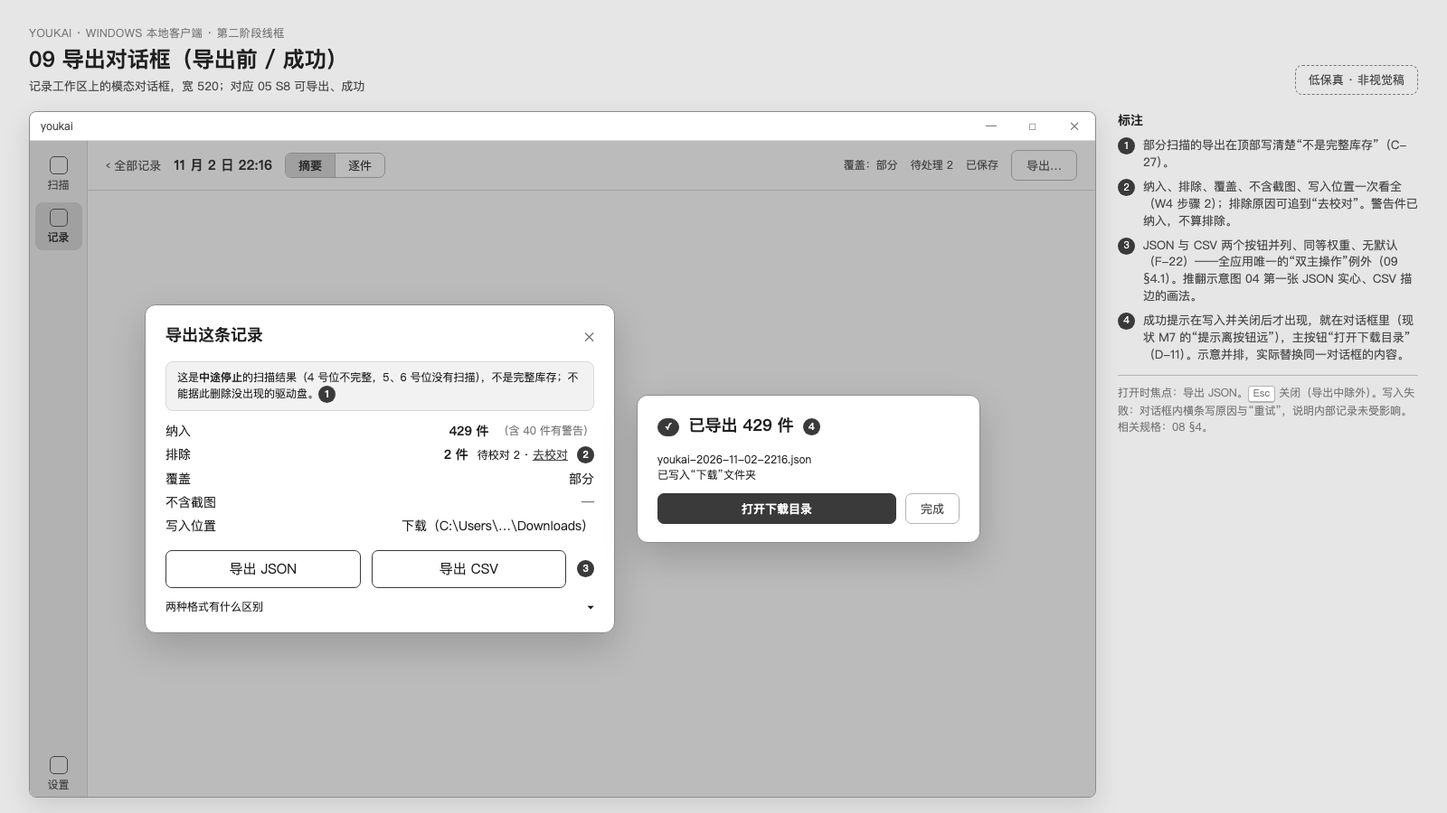
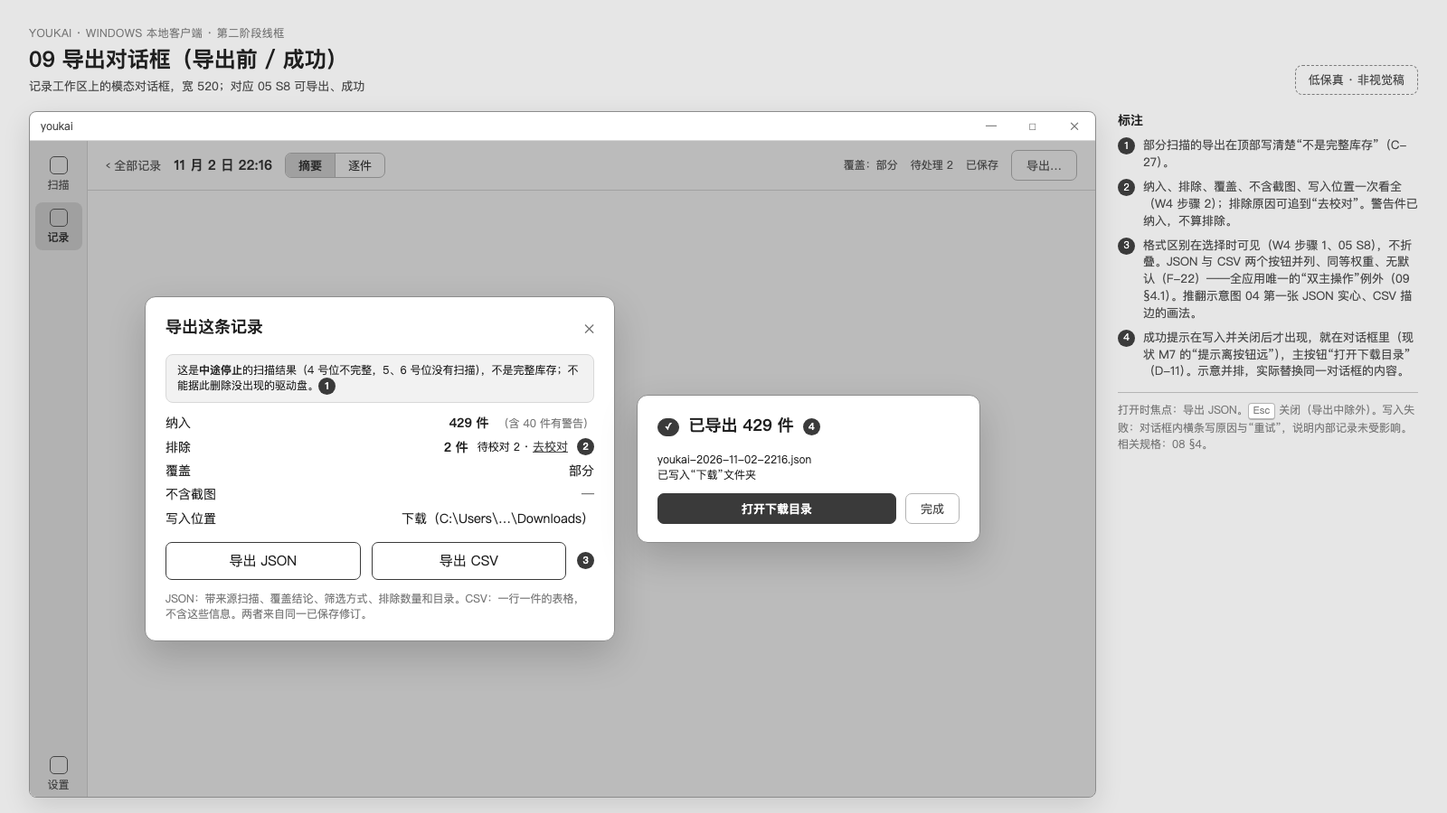
docs(design): address phase-two review round 4
List every phase-one input overridden by removing the recent-record
card (05 S1 revisit, 06 section 3 items 3 and 13, 03 entry points),
drop the proposed "why?" link so first visits match wireframe 01, and
restore spec-required copy that was trimmed as redundant: P-14's
"total unknown, no percentage" on the scan page and in the scanning
state, and the format differences in the export dialog (W4 step 1,
S8). Add "information required by specs or decided proposals" and
tooltip shortcuts to the 09 section 5.3 exceptions.

Also make the records list lead row show a conclusion, add read-only
focus rules to 08 section 3.4, unify the warning band text, tie the
prepare-timeout card to the checklist and its start button, tighten
T-08's fallback and evidence wording, and fix small focus and menu
mismatches.

Agent-Models: claude-opus-5-5 medium

diff --git a/docs/design/uiux-2026-11/wireframes/03-home-preparing.html b/docs/design/uiux-2026-11/wireframes/03-home-preparing.html
@@ -25,13 +25,13 @@
         </div>
       </section>
       <section class="col" style="width:420px; gap:12px">
-        <div class="row"><h4 style="margin:0">对照：准备超时后（出现在左侧同一位置）</h4><span class="m">4</span></div>
+        <div class="row"><h4 style="margin:0">对照：准备超时后回到准备检查（清单顶部）</h4><span class="m">4</span></div>
         <div class="scancard" style="flex:none">
           <div class="col" style="gap:8px; padding:14px 16px">
             <b>没有开始：30 秒内游戏没有就绪</b>
             <div class="check bad" style="grid-template-columns:22px 1fr; padding:8px 0; background:none; border:0"><span class="ic bad"></span><span><b>游戏窗口被遮挡</b><br><span class="small">检查点 7 被另一个窗口挡住（窗口类：Chrome_WidgetWin_1，进程：chrome.exe）。<br>请关掉或移开挡住游戏的窗口，然后重新开始。</span></span></div>
           </div>
-          <div class="actbar"><div class="notice"><span class="link">复制诊断信息</span></div><div class="go"><span class="btn primary">重新开始</span></div></div>
+          <div class="actbar"><div class="notice"><span class="link">复制诊断信息</span></div><div class="go"><span class="btn primary">开始扫描</span></div></div>
         </div>
       </section>
     </div></main>
@@ -43,7 +43,7 @@
     <li>30 秒倒计时（P-04 已采纳）。youkai 留在原地（P-09 不采纳），游戏切到前台后通常看不到它；倒计时只在用户切回前有用（06 §3 第 15 条）。</li>
     <li>激活结果：成功时只写“已把游戏切到前台”；被系统拒绝时写“未能切换，请自己切换到游戏”（C-05，需要 R-02）。</li>
     <li>逐项实时原因先实测（P-04）；实测前只写“正在等待游戏就绪”，到期后再显示原因（L-02）。</li>
-    <li>准备超时与预检失败：原因 + 怎么做 + 下一步；遮挡写检查点与窗口类或进程名，不写外部窗口标题（T2 §3.2）。示意并排放在右侧，实际出现在左侧扫描区同一位置。</li>
+    <li>准备超时与预检失败：扫描区回到准备检查，这张卡就是清单顶部的失败结论（下面接着其余检查项，此处省略）；按钮就是方案 C 操作条里的“开始扫描”，不另设“重新开始”（08 §1.2）。原因 + 怎么做；遮挡写检查点与窗口类或进程名，不写外部窗口标题（T2 §3.2）。</li>
   </ol>
   <div class="state">“停止”按钮可用 Tab 到达；推荐用热键停止。<br>相关规格：08 §1.2；10 R-02、R-03、R-05。</div>
 </div>

diff --git a/docs/design/uiux-2026-11/wireframes/01-home-first-run.html b/docs/design/uiux-2026-11/wireframes/01-home-first-run.html
@@ -25,7 +25,7 @@
           <div class="small muted" style="padding:8px 12px">范围：S 级 · 1–6 号位 · 保存在本机</div>
         </div>
         <div class="actbar">
-          <div class="notice"><span>中途停止 <span class="kbd">Ctrl</span>+<span class="kbd">Alt</span>+<span class="kbd">Shift</span>+<span class="kbd">S</span></span><span>点开始后 <b>30 秒内</b>保持游戏在前台，扫描期间不要操作游戏</span><span>预计：未知</span><span class="m">4</span></div>
+          <div class="notice"><span>中途停止 <span class="kbd">Ctrl</span>+<span class="kbd">Alt</span>+<span class="kbd">Shift</span>+<span class="kbd">S</span></span><span>点开始后 <b>30 秒内</b>保持游戏在前台，扫描期间不要操作游戏</span><span>预计：未知（总数未知，不显示百分比）</span><span class="m">4</span></div>
           <div class="go"><span class="why">管理员权限不一致</span><span class="btn primary off big">开始扫描</span><span class="m">5</span></div>
         </div>
       </div>
@@ -38,7 +38,7 @@
     <li>首次与回访使用同一份准备检查（P-03），检查项默认全部展开；不满足项排在最前，标题行的标签写“n 项需要处理”。检查结果带检查时间，窗口重新获得焦点或超过 10 秒时自动重查（09 §4.8）。</li>
     <li>失败项展开“为什么 + 怎么做”。权限是首次使用主路径上的正常步骤（W1 步骤 3–4），引导文案“先从托盘退出 youkai，再以管理员身份运行”（P-05）。</li>
     <li>需要游戏在前台的检查不给结论，只标“点开始后检查”，并提示先打开驱动盘仓库页（C-07）。</li>
-    <li>须知在底部操作条左侧（方案 C）；预计耗时没有历史时写“未知”（P-14）。</li>
+    <li>须知在底部操作条左侧（方案 C）；预计耗时没有历史时写“未知”，并按 P-14 说明总数未知、不显示百分比。</li>
     <li>按钮在操作条右侧；禁用时原因写在按钮左侧（09 §4.1）。失败项展开后清单变长，操作条仍固定可见。初始焦点在“退出 youkai”。</li>
   </ol>
   <div class="state">焦点顺序：导航轨 → 重新检查 → 退出 youkai → 更换目标 → 开始扫描（禁用）。<br>相关规格：08 §1、§1.1、§1.3。</div>

diff --git a/docs/design/uiux-2026-11/wireframes/14-review-warning.html b/docs/design/uiux-2026-11/wireframes/14-review-warning.html
@@ -33,7 +33,7 @@
 </div>
 <div class="notes">
   <h3>标注</h3>
-  <ol><li>“警告”筛选下选中一件有警告但可导出的件；以最常见的“装备者未识别”为例（11-02 真机 108 件）。警告件不计入“待处理”。</li><li>截图区同其他件；警告字段对应的装备者头像裁剪被高亮，方便用户自己判断是谁。</li><li>表单顶部一条说明带（不是错误样式）：“已纳入导出 · 警告：装备者未识别”；装备者字段写“未识别（可留空导出）”并带“!”标记，警告字段排在表单最前（08 §3.3）。</li><li>原始文字、修订前后值按需展开。</li><li><b>不需要用户操作</b>：用户已决定警告暂不处理、留空导出（06 §1.2），所以没有主按钮、没有“确认并下一项”，也没有批量处理。可选：点“修改”补填装备者后“确认修改”，警告消失、转为已通过（与 13 相同，已采纳）。</li></ol>
+  <ol><li>“警告”筛选下选中一件有警告但可导出的件；以最常见的“装备者未识别”为例（11-02 真机 108 件）。警告件不计入“待处理”。</li><li>截图区同其他件；警告字段对应的装备者头像裁剪被高亮，方便用户自己判断是谁。</li><li>表单顶部一条说明带（不是错误样式）：“已纳入导出 · 警告：装备者未识别，导出时留空。”；装备者字段写“未识别（可留空导出）”并带“!”标记，警告字段排在表单最前（08 §3.3）。</li><li>原始文字、修订前后值按需展开。</li><li><b>不需要用户操作</b>：用户已决定警告暂不处理、留空导出（06 §1.2），所以没有主按钮、没有“确认并下一项”，也没有批量处理。可选：点“修改”补填装备者后“确认修改”，警告消失、转为已通过（与 13 相同，已采纳）。</li></ol>
   <div class="state">初始焦点：“修改”按钮。焦点顺序同 13。<br>相关规格：08 §3.3、§3.4；05 S7 有警告但可导出的件；06 §1.2。</div>
 </div>
 </div>

diff --git a/docs/design/uiux-2026-11/wireframes/09-export-dialog.html b/docs/design/uiux-2026-11/wireframes/09-export-dialog.html
@@ -23,7 +23,7 @@
         <div class="row"><span class="grow">写入位置</span><span>下载（C:\Users\…\Downloads）</span></div>
       </div>
       <div class="row" style="gap:12px; margin-top:4px"><span class="btn big grow">导出 JSON</span><span class="btn big grow">导出 CSV</span><span class="m">3</span></div>
-      <div class="row small"><span class="grow">两种格式有什么区别</span><span>▾</span></div>
+      <div class="small muted">JSON：带来源扫描、覆盖结论、筛选方式、排除数量和目录。CSV：一行一件的表格，不含这些信息。两者来自同一已保存修订。</div>
     </div>
     <div class="dialog col" style="gap:12px; width:380px">
       <div class="row"><span class="tag solid">✓</span><h2 style="font-size:18px">已导出 429 件</h2><span class="m">4</span></div>
@@ -37,7 +37,7 @@
   <ol>
     <li>部分扫描的导出在顶部写清楚“不是完整库存”（C-27）。</li>
     <li>纳入、排除、覆盖、不含截图、写入位置一次看全（W4 步骤 2）；排除原因可追到“去校对”。警告件已纳入，不算排除。</li>
-    <li>JSON 与 CSV 两个按钮并列、同等权重、无默认（F-22）——全应用唯一的“双主操作”例外（09 §4.1）。推翻示意图 04 第一张 JSON 实心、CSV 描边的画法。</li>
+    <li>格式区别在选择时可见（W4 步骤 1、05 S8），不折叠。JSON 与 CSV 两个按钮并列、同等权重、无默认（F-22）——全应用唯一的“双主操作”例外（09 §4.1）。推翻示意图 04 第一张 JSON 实心、CSV 描边的画法。</li>
     <li>成功提示在写入并关闭后才出现，就在对话框里（现状 M7 的“提示离按钮远”），主按钮“打开下载目录”（D-11）。示意并排，实际替换同一对话框的内容。</li>
   </ol>
   <div class="state">打开时焦点：导出 JSON。<kbd class="kbd">Esc</kbd> 关闭（导出中除外）。写入失败：对话框内横条写原因与“重试”，说明内部记录未受影响。<br>相关规格：08 §4。</div>

diff --git a/docs/design/uiux-2026-11/wireframes/10-records.html b/docs/design/uiux-2026-11/wireframes/10-records.html
@@ -12,7 +12,7 @@
       <table class="t">
         <thead><tr><th>时间</th><th>结果</th><th class="num">件数</th><th class="num">待处理</th><th class="num">可导出</th><th class="num">占用</th><th style="width:44px"></th></tr></thead>
         <tbody>
-          <tr class="sel"><td><b>11 月 3 日 21:40</b></td><td>正常结束 · 覆盖：全部</td><td class="num">1,017</td><td class="num">1</td><td class="num">1,016</td><td class="num">312 MB</td><td>⋯</td></tr>
+          <tr class="sel"><td><b>11 月 3 日 21:40</b></td><td><b>扫全了，1 件待校对</b></td><td class="num">1,017</td><td class="num">1</td><td class="num">1,016</td><td class="num">312 MB</td><td>⋯ <span class="m">3</span></td></tr>
           <tr><td>11 月 3 日 20:12</td><td>正常结束 · 覆盖：部分（2 个号位）</td><td class="num">612</td><td class="num">0</td><td class="num">612</td><td class="num">190 MB</td><td>⋯</td></tr>
           <tr><td>11 月 3 日 19:58</td><td>没有开始 · 准备超时</td><td class="num">0</td><td class="num">—</td><td class="num">0</td><td class="num">1 MB</td><td>⋯</td></tr>
           <tr><td>11 月 2 日 22:16</td><td>中途停止 · 游戏失去了焦点</td><td class="num">431</td><td class="num">2</td><td class="num">429</td><td class="num">140 MB</td><td>⋯</td></tr>
@@ -20,7 +20,6 @@
           <tr><td class="muted">11 月 1 日 23:40</td><td><span class="tag solid">!</span> 无法打开：文件已损坏 <span class="m">2</span></td><td class="num muted">—</td><td class="num muted">—</td><td class="num muted">—</td><td class="num">88 MB</td><td>⋯</td></tr>
         </tbody>
       </table>
-      <div class="row small muted"><span class="m">3</span></div>
       <div class="row" style="align-items:flex-start; gap:18px; margin-top:auto">
         <div class="menu"><div>打开</div><div>导出…</div><div class="sep"></div><div>删除截图…（312 MB）</div><div>删除记录…</div></div><span class="m">4</span>
         <div class="dialog col" style="gap:10px; width:440px">

diff --git a/docs/design/uiux-2026-11/wireframes/04-home-wrapup.html b/docs/design/uiux-2026-11/wireframes/04-home-wrapup.html
@@ -15,6 +15,7 @@
             <h2 style="font-size:18px">正在扫描</h2>
             <div class="row"><span class="grow">已采集</span><b style="font-size:22px">431</b><span>件</span></div>
             <div class="row"><span class="grow">当前</span><b>3 号位</b><span class="small muted">（共 6 个）</span></div>
+            <div class="small muted">总数未知，不显示百分比</div>
           </div>
           <div class="actbar"><div class="notice"><span style="white-space:nowrap">停止 <span class="kbd">Ctrl</span>+<span class="kbd">Alt</span>+<span class="kbd">Shift</span>+<span class="kbd">S</span></span><span>点击 youkai 也会停止扫描</span></div><div class="go"><span class="btn">停止扫描</span></div></div>
         </div>

diff --git a/docs/design/uiux-2026-11/08-screens.md b/docs/design/uiux-2026-11/08-screens.md
@@ -13,11 +13,11 @@
 | 首要问题 | 现在能不能开始？（“上次扫得怎么样”由“记录”目的地回答，扫描页不再承担） |
 | 主操作 | **开始扫描**，在准备检查卡片底部操作条的右侧（已决定（2026-11-04，用户选 C））。条件全部满足时可用；不满足时禁用，原因写在按钮左侧（例如“管理员权限不一致”；有多项时写“还有 n 项需要处理”）。扫描页只有这一个主按钮（Q-05 已由用户反馈消解，见 [11 Q-05](11-phase2-open-questions.md#q-05-首页的主按钮已由用户反馈消解)） |
 | 次要信息 | 停止热键 `Ctrl+Alt+Shift+S`、“点开始后 30 秒内保持游戏在前台”、预计耗时（P-14）、目标客户端与窗口（P-01）、“扫描期间不要操作游戏” |
-| 按需展开 | 每项的“当前值 → 需要值”与调整方法；权限项的提权说明（只发送鼠标输入、不加载驱动、不注入、不读内存，C-10）；（检查项默认全部展开，首次与回访相同；每项的“为什么”说明首次展开、之后收起为一个“为什么？”链接） |
+| 按需展开 | 每项的“当前值 → 需要值”与调整方法；权限项的提权说明（只发送鼠标输入、不加载驱动、不注入、不读内存，C-10）。检查项默认全部展开，首次与回访相同（用户决定，2026-11-03） |
 | 空状态 | 扫描页不显示记录，因此没有“无记录”空状态（无记录的空状态在记录列表，§5）。找不到游戏：目标客户端一项写“未找到《绝区零》窗口 → 启动游戏并打开驱动盘仓库页”，其余依赖窗口的项显示“等待找到游戏” |
 | 失败出口 | 每个不满足项有自己的调整方法或按钮（见下表）；磁盘不足 →“去清理”；点开始后的预检失败回到同一份清单，失败项置顶并展开 |
-| 键盘与焦点 | 导航轨 → “重新检查” → 第一个不满足项的操作按钮（依次） → 开始扫描。首次进入时初始焦点在第一个不满足项；全部满足时在“开始扫描” |
-| 对应状态 | S1 首次启动 / 回访 / 没有可用扫描源 / 识别资源缺失或损坏；S2 全部；S3 的 Windows 各行（mac 授权与窗口尺寸两行属于后续版本）；S4 采集中（窗口可见时）；S5 全部 |
+| 键盘与焦点 | 导航轨 → “重新检查” → 不满足项的操作按钮（依次） → “更换目标” → 开始扫描。首次进入时初始焦点在第一个不满足项；全部满足时在“开始扫描” |
+| 对应状态 | S1 首次启动 / 回访（05 要求的最近记录状态改由记录列表首行承担，§5） / 没有可用扫描源 / 识别资源缺失或损坏；S2 全部；S3 的 Windows 各行（mac 授权与窗口尺寸两行属于后续版本）；S4 采集中（窗口可见时）；S5 全部 |
 
 ### 1.1 准备检查清单
 
@@ -46,7 +46,7 @@
 | 阶段 | 扫描区显示 | 可做 | 对应状态 |
 | --- | --- | --- | --- |
 | 准备中（点开始后） | 大号倒计时与“请在倒计时结束前让游戏保持在前台”；底部操作条：停止热键、“请确保 youkai 没有盖住游戏窗口”、右侧“停止”；激活结果（“已把游戏切到前台” / “未能切换，请自己切换到游戏”，后一句只在被拒时出现）；“等待中”的检查项（实时原因先实测，P-04；实测前只写“正在等待游戏就绪”） | 停止 | S3 预检中、等待切回、等待中条件未满足 |
-| 准备失败 | 回到准备检查，失败项置顶展开，标题写“没有开始：原因”；准备超时写出具体原因（遮挡写检查点与窗口类或进程名，不写外部窗口标题） | 按项调整后再开始 | S3 各预检失败行、准备超时 |
+| 准备失败 | 回到准备检查，失败项置顶展开，清单顶部写“没有开始：原因”；准备超时写出具体原因（遮挡写检查点与窗口类或进程名，不写外部窗口标题）。重新开始用的就是底部操作条里的“开始扫描”，不另设按钮 | 按项调整后点“开始扫描” | S3 各预检失败行、准备超时 |
 | 扫描中 | 只在窗口恰好可见时有意义（例如 4K 显示器上与游戏并排）：“正在扫描 · 已采集 n 件 · 第 k 个号位”，无百分比；“停止扫描”按钮 | 停止（点击窗口本身也会让游戏失焦而停止，文案写明） | S4 |
 | 收尾中 | “已停止操作游戏，正在识别剩余 n 件并保存”；不把“已请求停止”说成已完成（F-13） | 等待 | S5 已停止操作、保存中 |
 | 保存失败 | 升为首要：“扫描结果还没有保存”、原因、哪些内容未保存；主按钮“重试保存”；说明此时不能开始新扫描、不能安装更新、退出会被拒绝 | 重试保存；复制诊断信息 | S5 保存失败 |
@@ -125,11 +125,11 @@
 
 ### 3.3 警告件
 
-“警告”筛选下可逐件查看、修改，不提供批量处理（[06 §1.2](06-proposals-and-phase2.md#12-其他产品决定2026-11-03)）。警告件不计入“待处理”，表单顶部写“这件已纳入导出，警告：装备者未识别”。线框：[14](wireframes/14-review-warning.html)。
+“警告”筛选下可逐件查看、修改，不提供批量处理（[06 §1.2](06-proposals-and-phase2.md#12-其他产品决定2026-11-03)）。警告件不计入“待处理”，表单顶部写“已纳入导出 · 警告：装备者未识别，导出时留空。”线框：[14](wireframes/14-review-warning.html)。
 
 以最常见的“装备者未识别”为例（11-02 真机 108 件，[真机报告](../../reports/2026-11-02-windows-local-field-acceptance.md)第 131 行）：
 
-- **呈现**：表单顶部一条说明带（不是错误样式）：“已纳入导出 · 警告：装备者未识别，导出时留空。”装备者字段显示“未识别（可留空导出）”，旁边一个“!”标记；截图区高亮装备者头像裁剪（不另加文字说明）。
+- **呈现**：表单顶部一条说明带（不是错误样式）：“已纳入导出 · 警告：装备者未识别，导出时留空。”装备者字段显示“未识别（可留空导出）”，旁边一个“!”标记，带警告的字段排在表单最前；截图区高亮装备者头像裁剪（不另加文字说明）。
 - **不需要用户操作**：用户已决定装备者等警告暂不处理、留空导出（[06 §1.2](06-proposals-and-phase2.md#12-其他产品决定2026-11-03)），所以这里没有主按钮，也不出现“确认并下一项”。
 - **可选操作**：与已通过的件相同（§3.4），点“修改”后可以从下拉中选装备者再“确认修改”；补填后警告消失，转为“已通过”。
 
@@ -144,6 +144,7 @@
 | 底部操作区（只读时） | 没有主按钮；只有“‹ 上一件”“下一件 ›”两个次要按钮（`Ctrl+J` 仍跳到下一个**待处理**件） | 这一屏的首要问题“这件哪里要改”对已通过的件答案是“不用改”，没有需要突出的动作 |
 | 底部操作区（点“修改”后） | 主按钮“确认修改”（在左）、次要“取消修改”；保存失败的处理同 §3 失败出口 | 修改已确认的件需要重新确认（F-20），所以用“确认修改”而不是单独的“保存” |
 | 截图区 | 与待处理件相同的逐行裁剪列表，选中字段时高亮 | 视图结构一致，用户切换件时不用重新找位置 |
+| 键盘与焦点（只读时） | 初始焦点在“修改”；顺序为 导航轨 → 标题栏 → 列表筛选 → 列表 → 截图 → 修改 → 上一件 → 下一件。点“修改”后焦点移到第一个字段，顺序同 §3 | 只读时没有问题字段可聚焦 |
 
 ## 4. 导出对话框
 
@@ -153,11 +154,11 @@
 | --- | --- |
 | 首要问题 | 导出了什么、写到哪里？ |
 | 主操作 | **导出 JSON**、**导出 CSV**：两个按钮并列、同等权重、无默认（F-22）。这是“每屏只有一个主操作”的唯一例外（[09 §4.1](09-window-and-interaction.md#41-主按钮)） |
-| 次要信息 | 纳入 n 件、排除 m 件（附“去校对”）、覆盖结论、“不含截图”、写入位置（系统下载目录） |
-| 按需展开 | 两种格式的区别（JSON 带来源扫描、覆盖结论、筛选方式、排除数量和目录；CSV 是一行一件的表格，不含这些信息，[JSON/CSV v2 §5](../../specs/scan-json-format.md#5-csv-导出)）；排除原因明细 |
+| 次要信息 | 纳入 n 件、排除 m 件（附“去校对”）、覆盖结论、“不含截图”、写入位置（系统下载目录）；两种格式的区别（JSON 带来源扫描、覆盖结论、筛选方式、排除数量和目录；CSV 是一行一件的表格，不含这些信息，[JSON/CSV v2 §5](../../specs/scan-json-format.md#5-csv-导出)），选择时可见（W4 步骤 1、05 S8“可导出”） |
+| 按需展开 | 排除原因明细 |
 | 空状态 | 可导出数为零：标题写原因，默认焦点在“去校对”；仍允许导出空文件（F-22） |
 | 失败出口 | 写入失败：原因（目录不可写、空间不足）与“重试”，说明内部记录未受影响；有未保存修改：对话框不打开，先出现未保存修改对话框 |
-| 键盘与焦点 | 导出 JSON → 导出 CSV → 格式区别（折叠）→ 去校对 → 关闭。打开时焦点在“导出 JSON”；`Esc` 关闭（导出中除外） |
+| 键盘与焦点 | 导出 JSON → 导出 CSV → 去校对 → 关闭。打开时焦点在“导出 JSON”；`Esc` 关闭（导出中除外） |
 | 对应状态 | S8 可导出、被阻止、可导出数为零、导出中、成功、失败、已取消 |
 
 导出中：两个格式按钮换成进度与“取消”，`Esc` 不关闭对话框；该记录此时不能删除。取消后对话框回到导出前的内容，顶部写“已取消，没有写入文件”（S8 已取消）。
@@ -175,7 +176,7 @@
 | 首要问题 | 我要找的记录在哪？ |
 | 主操作 | **打开**（选中行后 `Enter` 或双击；行内不放实心按钮） |
 | 次要信息 | 每行：日期时间、结束类型 · 覆盖、件数、待处理数、可导出数、占用 |
-| 按需展开 | 行的“⋯”菜单：导出…、删除截图…、删除记录…；状态异常行的原因 |
+| 按需展开 | 行的“⋯”菜单：打开、导出…、删除截图…、删除记录…；状态异常行的原因 |
 | 空状态 | 没有记录：“还没有扫描记录”，按钮“去扫描页开始扫描”；筛选无结果：“没有符合条件的记录”与“清除筛选” |
 | 失败出口 | 记录损坏 / 版本不支持 / 没有可用检查点：行内写原因，只能删除；删除被阻止（活动扫描、收尾保存、导出中、未保存编辑）：说明原因；部分失败：保留失败项和“重试” |
 | 键盘与焦点 | 导航轨 → 日期筛选 → 表格（方向键选择、`Enter` 打开、`Shift+F10` 或菜单键打开“⋯”）。进入时焦点在表格第一行 |

diff --git a/docs/design/uiux-2026-11/07-information-architecture.md b/docs/design/uiux-2026-11/07-information-architecture.md
@@ -4,7 +4,7 @@
 
 每屏的规格见 [08](08-screens.md)，窗口边界与交互规则见 [09](09-window-and-interaction.md)，对服务层的需求见 [10](10-service-requirements.md)，检查点 2 的问题与决定见 [11](11-phase2-open-questions.md)，线框图见 [wireframes/](wireframes/README.md)。
 
-> **检查点 2 用户反馈（2026-11-03，用户决定）：** 第一个目的地叫“扫描”而不是“首页”；扫描页去掉“最近记录”卡，扫描区撑满内容宽度，“开始扫描”放进准备检查卡片底部操作条的右侧（方案 C，2026-11-04 用户选定）；准备检查默认展开全部检查项。回访时查看上次结果、继续校对、再导出改为经“记录”目的地（和结束通知的点击入口）。这覆盖了 [06 §3 第 13 条](06-proposals-and-phase2.md#3-给第二阶段的输入)“回访：启动 → 最近一条记录的状态与‘再扫一次’同时可达”，以及本文原先在 §3.2 选“单页分区”的理由；06 原文不改，以本文为准。
+> **检查点 2 用户反馈（2026-11-03，用户决定）：** 第一个目的地叫“扫描”而不是“首页”；扫描页去掉“最近记录”卡，扫描区撑满内容宽度，“开始扫描”放进准备检查卡片底部操作条的右侧（方案 C，2026-11-04 用户选定）；准备检查默认展开全部检查项。回访时查看上次结果、继续校对、再导出改为经“记录”目的地（和结束通知的点击入口）。这覆盖了以下第一阶段输入：[06 §3 第 13 条](06-proposals-and-phase2.md#3-给第二阶段的输入)的“回访”“继续校对”“再导出”三行（原为“启动 → 最近一条记录的状态与‘再扫一次’同时可达”“最近记录或历史 → 记录”）；[06 §3 第 3 条](06-proposals-and-phase2.md#3-给第二阶段的输入)的“首次显示解释，回访显示精简状态”（改为默认展开全部检查项，首次与回访相同）；[05 S1“再次启动，有历史（回访）”](05-state-matrix.md#s1-启动与唤起w5aw1w8)要求显示的最近一条记录状态（改由记录列表首行承担，[08 §5](08-screens.md#5-记录列表历史)）；以及 [03](03-journeys-windows.md) W2-R、W3 入口中的“最近记录”。另外也覆盖本文原先在 §3.2 选“单页分区”的理由。03、05、06 原文不改，与 F-18 的修正一样留到第二阶段定稿后同步，以本文为准。
 
 ## 1. 核心对象模型
 
@@ -89,7 +89,7 @@ flowchart LR
 
 | 情况 | 入口 | 落点与默认焦点 | 旅程 / 状态 |
 | --- | --- | --- | --- |
-| **首次进入**（没有任何记录） | 启动 youkai | 扫描页。准备检查展开，每项附一句“为什么需要”。焦点在第一个不满足项的操作上；全部满足时在“开始扫描”。 | W1、S1 首次启动、S2 |
+| **首次进入**（没有任何记录） | 启动 youkai | 扫描页。准备检查默认全部展开，不满足项展开“为什么 + 怎么做”。焦点在第一个不满足项的操作上；全部满足时在“开始扫描”。 | W1、S1 首次启动、S2 |
 | **回访** | 启动 youkai、从托盘打开、再次双击图标 | 扫描页。准备检查默认展开全部检查项（用户决定，2026-11-03），顶部一行结论（“可以开始”或“2 项需要处理”），不满足项排在最前。焦点在“开始扫描”（就绪时）或第一个不满足项。看上次结果走“记录”。 | W5a、S1 回访 |
 | **再扫** | 扫描页“开始扫描” | 扫描页进入准备中；收尾保存后自动进入新记录的摘要。旧记录不变。 | W2-R、S2→S6 |
 | **扫描结束后回来** | 点击结束通知、托盘“打开 youkai”、任务栏按钮 | 新记录的摘要（收尾已完成）；收尾未完成时停在扫描页的收尾状态，完成后自动进入摘要。 | W2c 步骤 9–11、S5、S6 |
